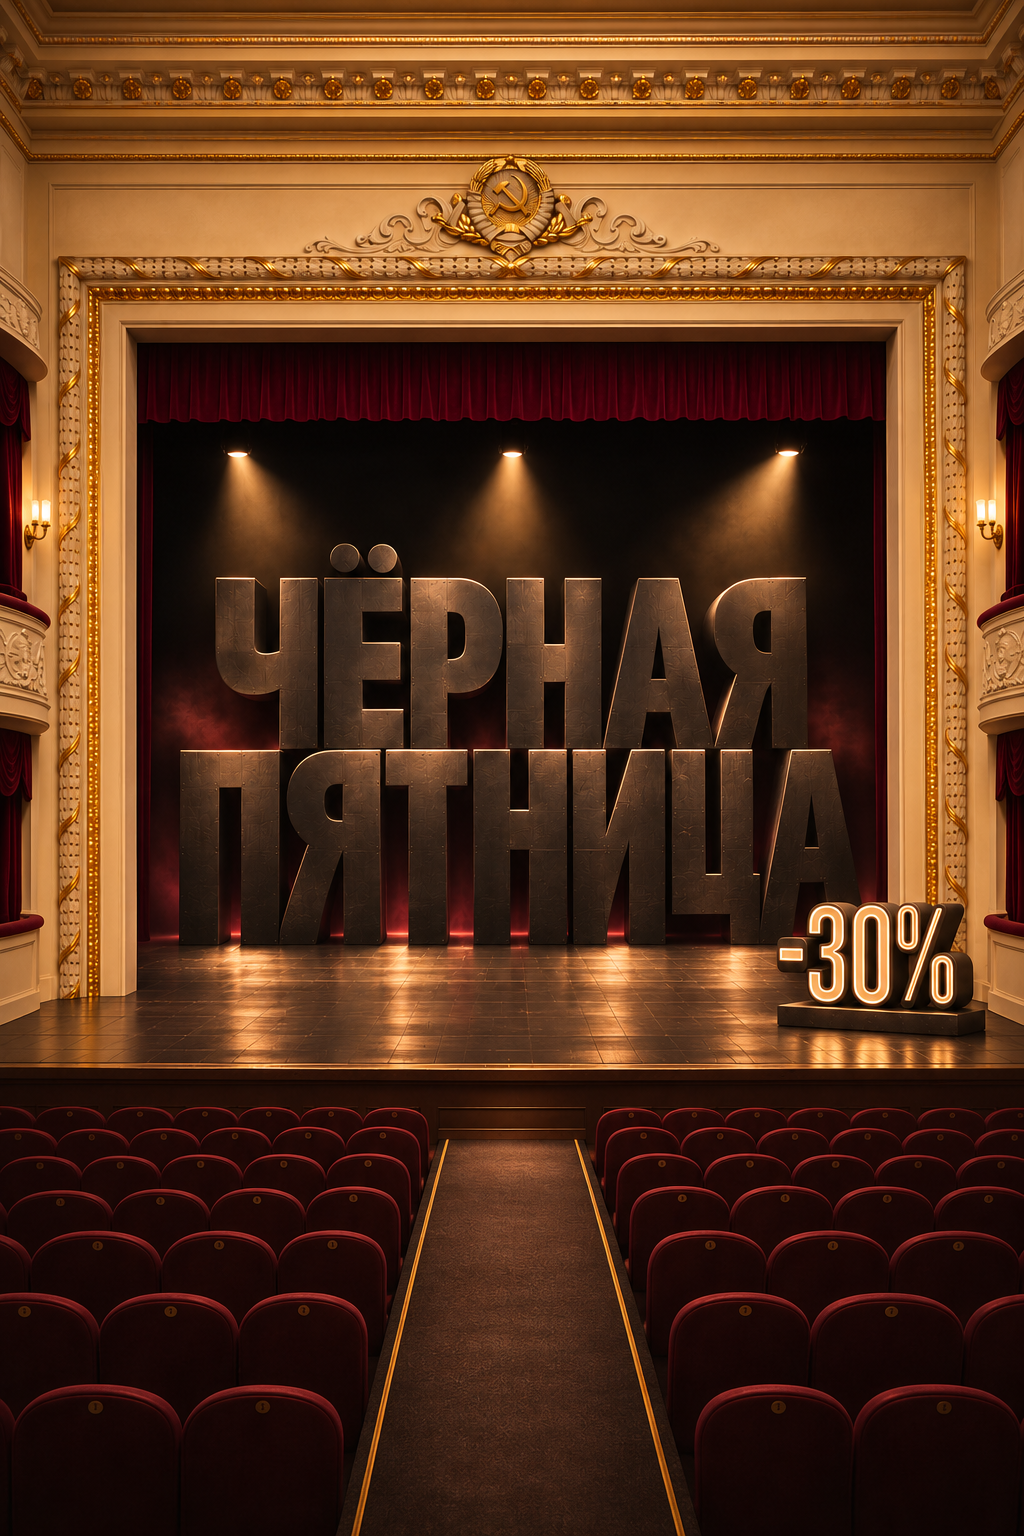
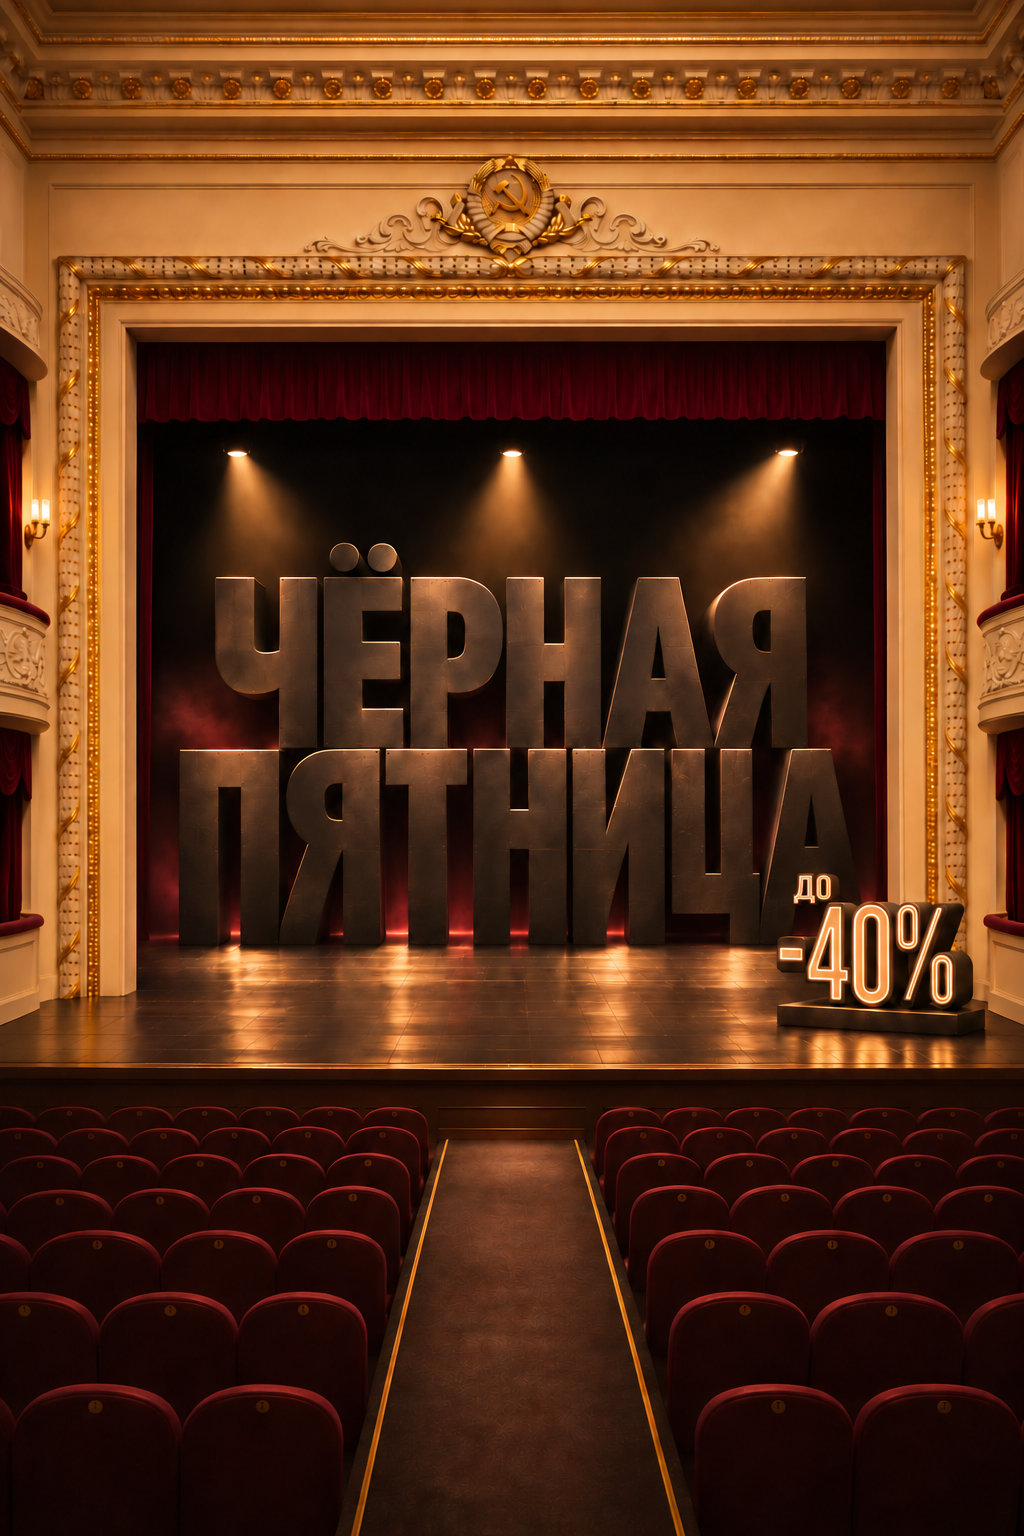
Add Сделка and Космос photos, vertical −40% visual on mobile

diff --git a/src/components/promo/shows.ts b/src/components/promo/shows.ts
@@ -7,6 +7,8 @@ import threeIvans from "@/assets/posters/three-ivans-stage.png";
 import idiot from "@/assets/posters/idiot.jpg";
 import reserve from "@/assets/posters/reserve.jpg";
 import scarletFlower from "@/assets/posters/scarlet-flower.jpg";
+import deal from "@/assets/posters/deal.jpg";
+import cosmos from "@/assets/posters/cosmos.jpg";
 import tomorrowWasWar from "@/assets/posters/tomorrow-was-war.jpg";
 
 const JAN_FROM = "2026-11-25T00:00:00+03:00";
@@ -27,11 +29,11 @@ export const shows: Show[] = [
   { start: "2027-01-09T12:00:00+03:00", title: "Три Ивана", discount: 40, promoCode: "ПУШКА40", availableFrom: JAN_FROM, poster: threeIvans, href: ext(71670, 60719054) },
   { start: "2027-01-10T12:00:00+03:00", title: "Аленький цветочек", discount: 40, promoCode: "ПУШКА40", availableFrom: JAN_FROM, poster: scarletFlower, href: ext(90922, 60719043) },
   { start: "2027-01-10T19:00:00+03:00", title: "Тартюф", discount: 40, promoCode: "ПУШКА40", availableFrom: JAN_FROM, poster: tartuffe, href: ext(71607, 60837812) },
-  { start: "2027-01-14T19:00:00+03:00", title: "Сделка", discount: 40, promoCode: "ПУШКА40", availableFrom: JAN_FROM, href: ext(68649, 61570842) },
+  { start: "2027-01-14T19:00:00+03:00", title: "Сделка", discount: 40, promoCode: "ПУШКА40", availableFrom: JAN_FROM, poster: deal, href: ext(68649, 61570842) },
   { start: "2027-01-15T19:00:00+03:00", title: "Идиот", discount: 40, promoCode: "ПУШКА40", availableFrom: JAN_FROM, poster: idiot, href: ext(116238, 61544312) },
   { start: "2027-01-16T19:00:00+03:00", title: "Завтра была война", discount: 40, promoCode: "ПУШКА40", availableFrom: JAN_FROM, poster: tomorrowWasWar, href: ext(68700, 61544424) },
   { start: "2027-01-21T19:00:00+03:00", title: "Заповедник", discount: 40, promoCode: "ПУШКА40", availableFrom: JAN_FROM, poster: reserve, href: ext(68683, 61547284) },
-  { start: "2027-01-26T19:00:00+03:00", title: "Космос", discount: 40, promoCode: "ПУШКА40", availableFrom: JAN_FROM, href: ext(68709, 61568104) },
+  { start: "2027-01-26T19:00:00+03:00", title: "Космос", discount: 40, promoCode: "ПУШКА40", availableFrom: JAN_FROM, poster: cosmos, href: ext(68709, 61568104) },
   { start: "2027-01-29T19:00:00+03:00", title: "Завтра была война", discount: 40, promoCode: "ПУШКА40", availableFrom: JAN_FROM, poster: tomorrowWasWar, href: ext(68700, 61568113) },
   { start: "2027-01-30T12:00:00+03:00", title: "Три Ивана", discount: 40, promoCode: "ПУШКА40", availableFrom: JAN_FROM, poster: threeIvans, href: ext(71670, 61568133) },
   { start: "2027-01-30T19:00:00+03:00", title: "Идиот", discount: 40, promoCode: "ПУШКА40", availableFrom: JAN_FROM, poster: idiot, href: ext(116238, 61568118) },

diff --git a/src/components/promo/Hero.tsx b/src/components/promo/Hero.tsx
@@ -1,6 +1,7 @@
 import { useState } from "react";
 import { toast } from "sonner";
 import { Copy, Check, ArrowDown } from "lucide-react";
+import stage from "@/assets/black_friday_stage.png";
 import stageWide from "@/assets/black_friday_stage_wide.png";
 
 export const PROMO_CODE = "ПУШКА30";
@@ -31,11 +32,11 @@ export function Hero() {
       />
       <div className="relative mx-auto -z-10 max-w-3xl md:hidden">
         <img
-          src={stageWide}
+          src={stage}
           alt="Чёрная пятница в Театре имени Пушкина — скидки до 40%"
-          width={1570}
-          height={1002}
-          className="block aspect-[3/2] w-full object-cover object-center"
+          width={1024}
+          height={1536}
+          className="block aspect-[2/3] max-h-[100vh] w-full object-cover object-[center_35%]"
         />
         <div className="pointer-events-none absolute inset-y-0 left-0 w-1/3 bg-gradient-to-r from-background/80 via-background/20 to-transparent" />
         <div className="pointer-events-none absolute inset-y-0 right-0 w-1/3 bg-gradient-to-l from-background/80 via-background/20 to-transparent" />
@@ -56,7 +57,7 @@ export function Hero() {
 
       <h1 className="sr-only">Чёрная пятница в Театре имени Пушкина — скидки до 40% по промокодам {PROMO_CODE} и {PROMO_CODE_JAN}</h1>
 
-      <div className="relative -mt-2 px-4 pb-12 md:-mt-28 sm:pb-16">
+      <div className="relative -mt-24 px-4 pb-12 md:-mt-28 sm:pb-16">
         <div className="mx-auto flex max-w-3xl flex-col items-center text-center">
           <p className=" max-w-xl text-base text-foreground/85 sm:text-lg">
             Скидка <span className="font-bold text-accent">30%</span> на&nbsp;спектакли ноября и&nbsp;декабря

diff --git a/src/components/promo/self-hosted-assets.test.ts b/src/components/promo/self-hosted-assets.test.ts
@@ -13,7 +13,7 @@ function files(directory: string): string[] {
 
 describe("self-hosted image assets", () => {
   it.each([
-    ["black_friday_stage.png", 2203889],
+    ["black_friday_stage.png", 1851753],
     ["black_friday_stage_wide.png", 1805311],
     ["posters/handsome-man.jpg", 512857],
     ["posters/three-ivans-stage.png", 1271854],
